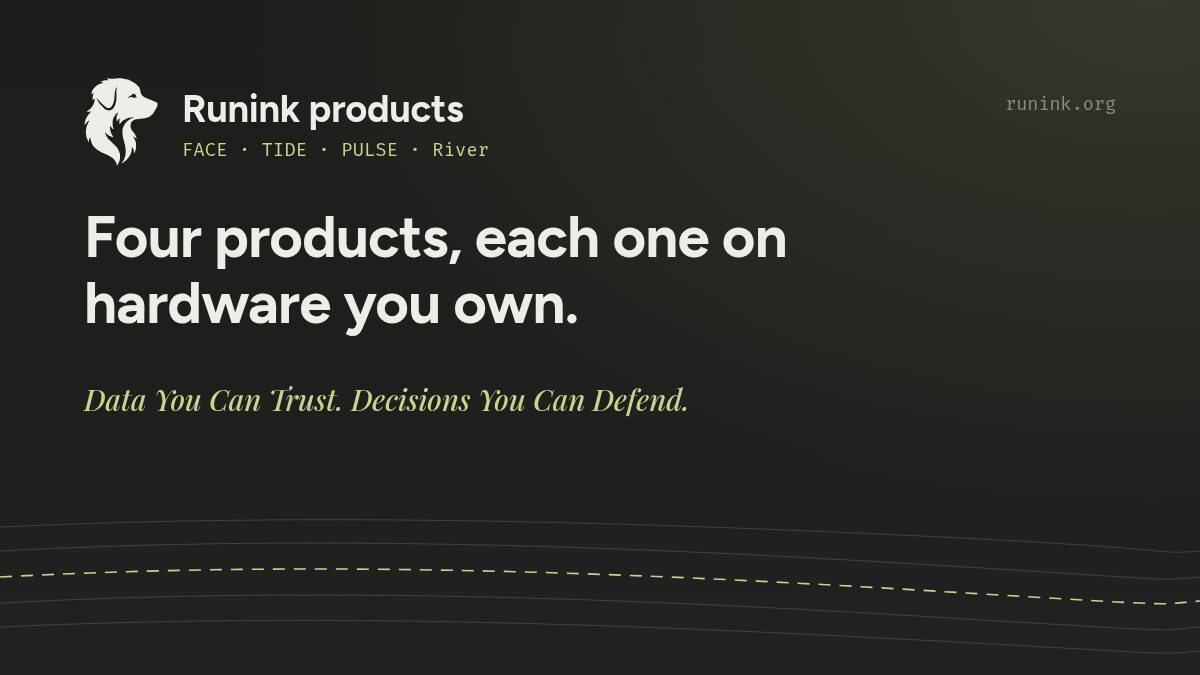
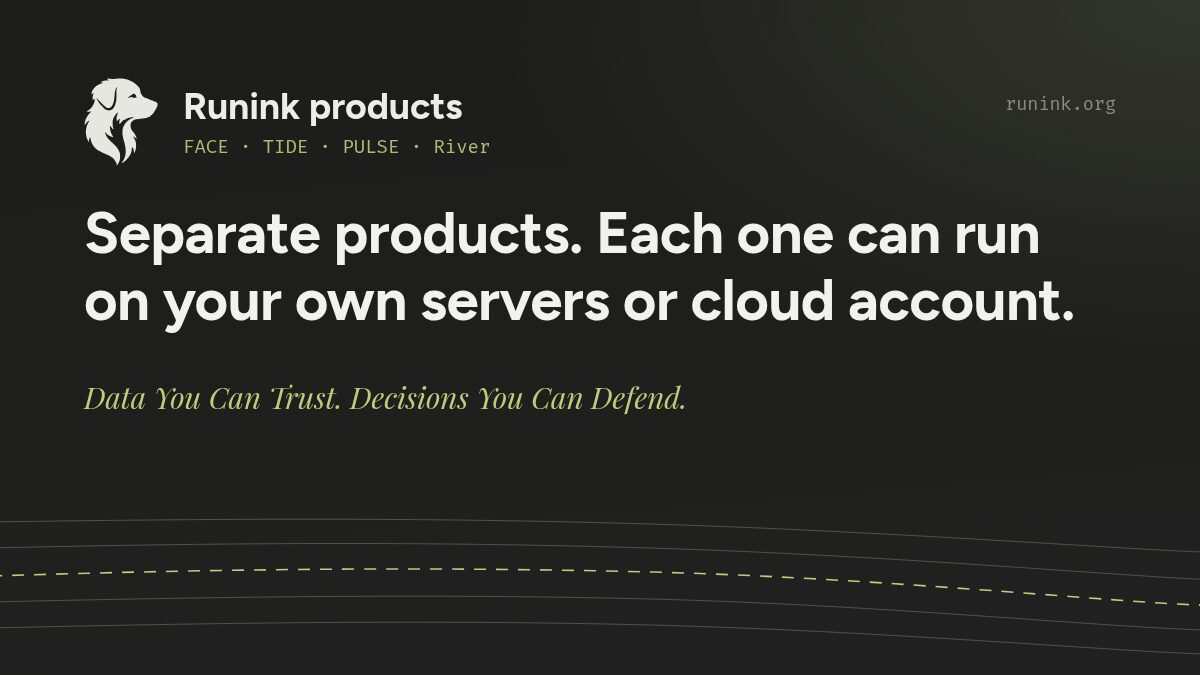
content: share cards for home and industries; redraw stale product cards (#292)
* content: share cards for home and industries; redraw stale product cards

Home and the industries index fell back to the site card; they now carry
their own 1200x675 card drawn from their own copy:

- home-og.jpg (home in en/es/fr/pt): the hero, "You find out when it is
  too late to argue."
- industries-og.jpg (/industries/, and /fr/industries/ through a config
  cascade, since that list has no content file): the index headline,
  "Find your operation, not our product names."

Three cards said things that are no longer true or no longer match their
page, and are redrawn in place under the same names:

- products-og.jpg (og/ and the older products/ copy, which still said
  CORE): "Separate products. Each one can run on your own servers or cloud
  account.", from the products index intro.
- tide-og.jpg: "Know what broke, what shipped and which number is right.",
  the first sentence of the TIDE hero.
- pulse-og.jpg: "The lead who wrote at nine at night bought from whoever
  answered first.", the PULSE hero.

runink-og, face-og and river-og are unchanged: each is still true and
matches its page.

The cards had no source in the repo. scripts/og-cards/ now holds the
template (site fonts, dog-head mark, product-hero colours), the card list
and a renderer (headless Chrome + ImageMagick, JPEG q82) so they can be
redrawn.

Claude-Session: https://claude.ai/code/session_01N1iZ5nqPHJ1u3cj9uXp2jY

* content: redraw the River share card from the page's current hero
[…]

diff --git a/scripts/og-cards/card.html b/scripts/og-cards/card.html
@@ -1,0 +1,77 @@
+<!doctype html>
+<!--
+  Share-card template (og:image), drawn at 1200x675. Rendered by render.mjs, which
+  replaces the {{...}} slots from cards.json. Not a site page: nothing under
+  scripts/ is published. The values below are the product-page hero's own
+  (assets/css/product.css: --rp-hero-a/b, --rp-lit, the #33362c glow), so a card
+  looks like the page it is shared from.
+-->
+<html lang="en">
+<head>
+<meta charset="utf-8">
+<style>
+@font-face { font-family: "Figtree Card"; src: url("{{FONTS}}/Figtree-var.woff2") format("woff2"); font-weight: 300 900; }
+@font-face { font-family: "Fira Code Card"; src: url("{{FONTS}}/FiraCode-Regular.woff2") format("woff2"); font-weight: 400; }
+@font-face { font-family: "Playfair Card"; src: url("{{FONTS}}/PlayfairDisplay-Italic-var.woff2") format("woff2"); font-weight: 400 700; font-style: italic; }
+:root {
+  --ground-a: #1c1c1a; --ground-b: #212121; --glow: #33362c;
+  --ink: #f2f2ec; --ink-head: #ecede8; --mark: #e6e7e1;
+  --lit: #c0cc7c; --url: #8b8b82; --strand: #717168;
+}
+html, body { margin: 0; width: 1200px; height: 675px; overflow: hidden; }
+body {
+  position: relative;
+  background:
+    radial-gradient(95% 85% at 100% 0%, var(--glow) 0%, transparent 62%),
+    linear-gradient(175deg, var(--ground-a), var(--ground-b));
+  font-family: "Figtree Card", sans-serif; color: var(--ink);
+  -webkit-font-smoothing: antialiased;
+}
+.lockup { position: absolute; left: 84px; top: 78px; display: flex; gap: 25px; align-items: center; }
+.mark {
+  width: 74px; height: 88px; background: var(--mark); flex: none;
+  -webkit-mask: url("{{MARK}}") center / contain no-repeat; mask: url("{{MARK}}") center / contain no-repeat;
+}
+.mark-img { width: 88px; height: 88px; flex: none; margin-right: -4px; }
+.name { font-weight: 700; font-size: 37.5px; line-height: 1; color: var(--ink-head); letter-spacing: -0.005em; }
+.sub { margin-top: 14px; font-family: "Fira Code Card", monospace; font-size: 18.5px; line-height: 1; color: var(--lit); opacity: 0.9; white-space: nowrap; }
+.url { position: absolute; right: 84px; top: 93px; font-family: "Fira Code Card", monospace; font-size: 18px; color: var(--url); }
+.headline {
+  position: absolute; left: 84px; top: 200px; width: 1030px; margin: 0;
+  font-weight: 700; font-size: 58px; line-height: 67px; letter-spacing: -0.01em; color: var(--ink);
+}
+.headline span { display: block; white-space: nowrap; }
+.tagline { position: absolute; left: 84px; top: 347px; font-family: "Playfair Card", serif; font-style: italic; font-size: 29.5px; color: var(--lit); }
+svg.flow { position: absolute; left: 0; bottom: 0; width: 1200px; height: 175px; }
+.flow path { fill: none; stroke: var(--strand); stroke-width: 1; opacity: 0.6; }
+.flow path.lit { stroke: var(--lit); stroke-width: 1.6; opacity: 1; stroke-dasharray: 12 10; }
+</style>
+</head>
+<body>
+<div class="lockup">
+  <div class="mark"></div>
+  <div><div class="name">{{TITLE}}</div><div class="sub">{{SUBTITLE}}</div></div>
+</div>
+<div class="url">runink.org</div>
+<h1 class="headline" id="h">{{HEADLINE}}</h1>
+<p class="tagline">Data You Can Trust. Decisions You Can Defend.</p>
+<svg class="flow" viewBox="0 0 1200 175" preserveAspectRatio="none" aria-hidden="true">
+  <path d="M-10 22 C 250 18, 450 18, 650 24 S 1050 44, 1160 50 S 1200 48, 1210 47" />
+  <path d="M-10 48 C 250 42, 450 42, 650 48 S 1050 70, 1160 77 S 1200 75, 1210 74" />
+  <path class="lit" d="M-10 76 C 250 68, 450 67, 650 72 S 1050 96, 1160 103 S 1200 100, 1210 99" />
+  <path d="M-10 102 C 250 96, 450 94, 650 99 S 1050 122, 1160 128 S 1200 126, 1210 125" />
+  <path d="M-10 128 C 250 122, 450 120, 650 125 S 1050 146, 1160 152 S 1200 150, 1210 149" />
+</svg>
+<script>
+// Shrink the headline until every line fits the column. Lines are given
+// explicitly in cards.json, so the break is chosen by a person, never by width.
+document.fonts.ready.then(() => {
+  const h = document.getElementById('h');
+  let size = parseFloat(getComputedStyle(h).fontSize);
+  const widest = () => Math.max(...[...h.children].map((s) => s.scrollWidth));
+  while (widest() > h.clientWidth && size > 40) { size -= 1; h.style.fontSize = size + 'px'; }
+  document.title = 'fitted ' + size;
+});
+</script>
+</body>
+</html>

diff --git a/content/_index.fr.md b/content/_index.fr.md
@@ -11,6 +11,9 @@ title: "Runink"
 # description, at most 155. Visible copy on the page is unchanged by these two.
 seo_title: "Runink | Repérez surfacturations et réclamations à temps"
 seo_description: "Surfacturations payées, réclamations expirées, règles enfreintes. Runink FACE lit vos données existantes et rédige la correction qu'une personne approuve."
+# Share card (og:image), drawn by scripts/og-cards/render.mjs from the English
+# hero. One English card serves all four languages.
+image: "/images/og/home-og.jpg"
 description: "Vous l'apprenez quand il est trop tard pour contester. Un conteneur attend parce qu'un document est faux et les frais courent dès ce jour-là. Runink FACE lit les enregistrements que vos systèmes détiennent déjà, compare chacun à la règle qui le régit et place une action rédigée devant la personne qui décide."
 # THE HOME PAGE IS DARK, AND IT IS THE ONLY MARKETING PAGE THAT IS.
 #

diff --git a/content/industries/_index.md b/content/industries/_index.md
@@ -6,6 +6,9 @@ title: "Industries"
 # description, at most 155. Visible copy on the page is unchanged by these two.
 seo_title: "Runink by industry: logistics, insurance, banking, telecom"
 seo_description: "Five industries, three Runink products. Find the page that reads like your week, see which product fits it, and the measures to track your own figures."
+# Share card (og:image), drawn by scripts/og-cards/render.mjs from this page's own
+# `headline` below.
+image: "/images/og/industries-og.jpg"
 description: "Five industries, three products. Runink FACE covers logistics and supply chain and insurance; Runink PULSE covers marketing; banking and telecom describe the Runink TIDE and Atlas oversight arrangement. Find the one that reads like your week, and see which product it is."
 # Hugo resolves layouts by TYPE. The section directory is already named
 # "industries", so type defaults correctly, but it is set explicitly here and

diff --git a/content/_index.pt.md b/content/_index.pt.md
@@ -11,6 +11,9 @@ title: "Runink"
 # description, at most 155. Visible copy on the page is unchanged by these two.
 seo_title: "Runink | Pegue cobranças indevidas e reclamações a tempo"
 seo_description: "Cobranças indevidas pagas, reclamações vencidas, regras quebradas. O Runink FACE lê os registros que você já tem e redige a correção para alguém aprovar."
+# Share card (og:image), drawn by scripts/og-cards/render.mjs from the English
+# hero. One English card serves all four languages.
+image: "/images/og/home-og.jpg"
 description: "Você descobre quando já é tarde para contestar. Um contêiner fica parado porque um documento está errado e a diária começa nesse mesmo dia. O Runink FACE lê os registros que os seus sistemas já guardam, compara cada um com a regra que o rege e coloca uma ação redigida diante de quem decide."
 # THE HOME PAGE IS DARK, AND IT IS THE ONLY MARKETING PAGE THAT IS.
 #

diff --git a/content/_index.md b/content/_index.md
@@ -27,6 +27,9 @@ title: "Runink"
 # description, at most 155. Visible copy on the page is unchanged by these two.
 seo_title: "Runink | Catch overcharges and expiring claims in time"
 seo_description: "Overcharges paid, claims left to expire, rules broken on a busy shift. Runink FACE reads the records you keep and drafts the fix for a person to approve."
+# Share card (og:image), drawn by scripts/og-cards/render.mjs from the English
+# hero. One English card serves all four languages.
+image: "/images/og/home-og.jpg"
 description: "You find out when it is too late to argue. A container sits because one form is wrong and the charge starts that day. Runink FACE reads the records your systems already hold, compares each one against the rule that governs it, and puts a drafted action in front of the person who owns the decision."
 # THE HOME PAGE IS DARK, AND IT IS THE ONLY MARKETING PAGE THAT IS.
 #

diff --git a/content/_index.es.md b/content/_index.es.md
@@ -11,6 +11,9 @@ title: "Runink"
 # description, at most 155. Visible copy on the page is unchanged by these two.
 seo_title: "Runink | Detecte sobrecostes y reclamaciones a tiempo"
 seo_description: "Sobrecostes pagados, reclamaciones vencidas, normas incumplidas. Runink FACE lee los registros que ya guarda y redacta la corrección que alguien aprueba."
+# Share card (og:image), drawn by scripts/og-cards/render.mjs from the English
+# hero. One English card serves all four languages.
+image: "/images/og/home-og.jpg"
 description: "Usted se entera cuando ya es tarde para reclamar. Un contenedor espera porque un documento está mal y el cargo empieza ese mismo día. Runink FACE lee los registros que sus sistemas ya guardan, compara cada uno con la norma que lo rige y pone una acción redactada delante de quien decide."
 # THE HOME PAGE IS DARK, AND IT IS THE ONLY MARKETING PAGE THAT IS.
 #

diff --git a/scripts/og-cards/README.md b/scripts/og-cards/README.md
@@ -1,0 +1,11 @@
+# Share cards
+
+The 1200x675 JPEG share cards (`og:image`) a page shows when it is shared or surfaced
+in Google Discover. `card.html` is the template; `cards.json` lists each card's title,
+subtitle, headline lines and output file.
+
+Regenerate with `node scripts/og-cards/render.mjs [id ...]` (needs `google-chrome-stable`
+or `$CHROME`, and ImageMagick's `magick`), then look at every card it wrote before
+committing. Headlines are a page's own hero copy, under CONTENT.md like any body copy.
+A card with `"markImage": true` shows its `mark` in its own colours (the River roundel)
+instead of as a one-colour mask.
